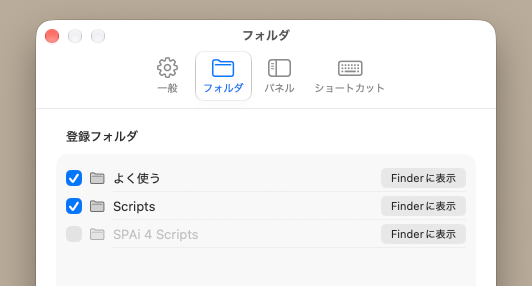
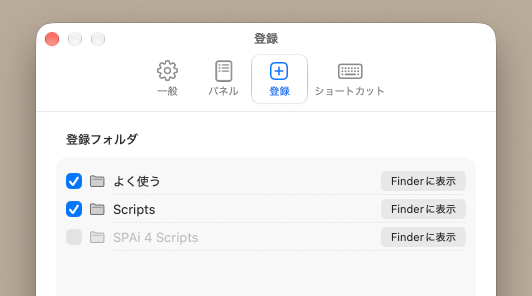
SPAi 4.0.2

diff --git a/Sources/SPAi/SPAi 4 Help.help/Contents/Resources/ja.lproj/06_settings.html b/Sources/SPAi/SPAi 4 Help.help/Contents/Resources/ja.lproj/06_settings.html
@@ -10,7 +10,7 @@
 <p class="breadcrumb"><a href="index.html">SPAi 4 ヘルプ</a> › 設定</p>
 <h1>設定</h1>
 
-<p>メニューバーのアイコン、またはDockアイコンのメニューから「設定…」を選ぶか、パネル上部の歯車ボタンをクリックすると、設定ウインドウが開きます。設定ウインドウには「一般」「フォルダ」「パネル」「ショートカット」の4つのタブがあります。</p>
+<p>メニューバーのアイコン、またはDockアイコンのメニューから「設定…」を選ぶか、パネル上部の歯車ボタンをクリックすると、設定ウインドウが開きます。設定ウインドウには「一般」「パネル」「登録」「ショートカット」の4つのタブがあります。</p>
 
 <h2>一般</h2>
 
@@ -25,7 +25,21 @@
 <h3>ログイン時に起動</h3>
 <p>Macへのログイン時にSPAiを自動的に起動します。</p>
 
-<h2>フォルダ</h2>
+<h2>パネル</h2>
+
+<h3>スクリプトパネル</h3>
+<dl>
+  <dt>Illustrator が最前面にあるときだけパネルを表示</dt>
+  <dd>オン（初期状態）のときは、ほかのアプリに切り替えるとスクリプトパネルが自動的に隠れ、Illustratorに戻ると再び表示されます。オフのときは、ほかのアプリを使っている間もパネルを表示したままにします。</dd>
+  <dt>リストの文字サイズ</dt>
+  <dd>スクリプトパネルの一覧の文字の大きさを「極小」「小」「中」「大」から選びます（初期状態は「中」）。</dd>
+  <dt>スクリプトを実行</dt>
+  <dd>スクリプトパネルでスクリプトを実行する操作を「ダブルクリック」「シングルクリック」から選びます（初期状態は「ダブルクリック」）。「シングルクリック」では、行をクリックすると選択と同時に実行します。ダブルクリックしても1回だけ実行します。検索パレットの操作は変わりません。</dd>
+  <dt>ショートカット一覧をキー順に並べる</dt>
+  <dd>スクリプトパネルの「ショートカット付きのスクリプトだけ」の一覧を、ショートカットの順（1、2…A、B…の順で、同じキーなら修飾キーの順）に並べます（初期状態はオン）。オフにすると名前の順に並びます（<a href="02_panel.html">スクリプトパネル</a>）。</dd>
+</dl>
+
+<h2>登録</h2>
 
 <h3>登録フォルダ</h3>
 <p>スクリプトが入ったフォルダを登録します。詳しくは<a href="05_scripts.html">スクリプトと登録フォルダ</a>をご覧ください。</p>
@@ -40,18 +54,6 @@
   <dd>オンのフォルダをパネルと検索パレットに表示します。オフにしても、そのフォルダのスクリプトに割り当てたショートカットは効いたままです。</dd>
   <dt>並び順</dt>
   <dd>行をドラッグすると並び替えられます。パネルの登録フォルダもこの順に並びます。</dd>
-</dl>
-
-<h2>パネル</h2>
-<dl>
-  <dt>Illustrator が最前面にあるときだけパネルを表示</dt>
-  <dd>オン（初期状態）のときは、ほかのアプリに切り替えるとスクリプトパネルが自動的に隠れ、Illustratorに戻ると再び表示されます。オフのときは、ほかのアプリを使っている間もパネルを表示したままにします。</dd>
-  <dt>リストの文字サイズ</dt>
-  <dd>スクリプトパネルの一覧の文字の大きさを「極小」「小」「中」「大」から選びます（初期状態は「中」）。</dd>
-  <dt>スクリプトを実行</dt>
-  <dd>スクリプトパネルでスクリプトを実行する操作を「ダブルクリック」「シングルクリック」から選びます（初期状態は「ダブルクリック」）。「シングルクリック」では、行をクリックすると選択と同時に実行します。ダブルクリックしても1回だけ実行します。検索パレットの操作は変わりません。</dd>
-  <dt>ショートカット一覧をキー順に並べる</dt>
-  <dd>スクリプトパネルの「ショートカット付きのスクリプトだけ」の一覧を、ショートカットの順（1、2…A、B…の順で、同じキーなら修飾キーの順）に並べます（初期状態はオン）。オフにすると名前の順に並びます（<a href="02_panel.html">スクリプトパネル</a>）。</dd>
 </dl>
 
 <h2>ショートカット</h2>

diff --git a/Sources/SPAi/AppDelegate.swift b/Sources/SPAi/AppDelegate.swift
@@ -817,17 +817,21 @@ final class AppDelegate: NSObject, NSApplicationDelegate {
             shortcuts.sizingOptions = [.preferredContentSize]
             let tabs = NSTabViewController()
             tabs.tabStyle = .toolbar
-            let pages: [(NSViewController, String, String)] = [
-                (general, String(localized: "General"), "gearshape"),
-                (folders, String(localized: "Folders"), "folder"),
-                (panel, String(localized: "Panel"), "sidebar.left"),
-                (shortcuts, String(localized: "Shortcuts"), "keyboard"),
+            // 並びは「一般」「パネル」「登録」「ショートカット」（2026-11-28 ユーザー指定で「パネル」を「一般」の右へ。
+            // 「フォルダ」タブは同日に ja 表記を「登録」・アイコンを plus.app に変更＝英語は Folders のまま）。
+            // 「パネル」のアイコンだけ自前の SVG（Assets の `PanelTabIcon`＝テンプレート画像・高さ 22pt）。
+            let pages: [(NSViewController, String, NSImage?)] = [
+                (general, String(localized: "General"), NSImage(systemSymbolName: "gearshape", accessibilityDescription: nil)),
+                (panel, String(localized: "Panel"), Self.panelTabIcon()),
+                (folders, String(localized: "Folders"), NSImage(systemSymbolName: "plus.app", accessibilityDescription: nil)),
+                (shortcuts, String(localized: "Shortcuts"), NSImage(systemSymbolName: "keyboard", accessibilityDescription: nil)),
             ]
-            for (vc, title, symbol) in pages {
+            for (vc, title, image) in pages {
                 vc.title = title
                 let item = NSTabViewItem(viewController: vc)
                 item.label = title
-                item.image = NSImage(systemSymbolName: symbol, accessibilityDescription: title)
+                image?.accessibilityDescription = title
+                item.image = image
                 tabs.addTabViewItem(item)
             }
             let window = NSWindow(contentViewController: tabs)
@@ -840,6 +844,23 @@ final class AppDelegate: NSObject, NSApplicationDelegate {
         // 窓は使い回すので、開くたびに外部で変わり得る状態（ログイン項目）を読み直させる
         NotificationCenter.default.post(name: .settingsWindowWillShow, object: nil)
         if let window = settingsWindow { bringToFront(window) }
+    }
+
+    /// 設定「パネル」タブのアイコン。SVG（縦長 82.13×104.69）を縦横比を保って高さ 22pt で描く。
+    /// ⚠ ツールバーは SF Symbols 以外の画像を約 32pt の枠いっぱいに拡大する（`size` を 22pt にしても
+    /// 実測 31pt になりラベルにかぶった）。そこで 32pt 四方の透明な画像の中央に 22pt で描いて渡す
+    /// （オフスクリーン描画の実測で高さ 22pt・歯車アイコンと同じ縦位置＝2026-11-28）。
+    private static func panelTabIcon() -> NSImage? {
+        guard let source = NSImage(named: "PanelTabIcon") else { return nil }
+        let slot: CGFloat = 32, height: CGFloat = 22
+        let aspect = source.size.height > 0 ? source.size.width / source.size.height : 82.13 / 104.69
+        let width = height * aspect
+        let image = NSImage(size: NSSize(width: slot, height: slot), flipped: false) { _ in
+            source.draw(in: NSRect(x: (slot - width) / 2, y: (slot - height) / 2, width: width, height: height))
+            return true
+        }
+        image.isTemplate = true
+        return image
     }
 
     /// ウィンドウ位置を記憶する。`name` でフレームを自動保存し、保存済みがあれば復元、なければ中央に置く。

diff --git a/Sources/SPAi/SPAi 4 Help.help/Contents/Resources/en.lproj/06_settings.html b/Sources/SPAi/SPAi 4 Help.help/Contents/Resources/en.lproj/06_settings.html
@@ -10,7 +10,7 @@
 <p class="breadcrumb"><a href="index.html">SPAi 4 Help</a> › Settings</p>
 <h1>Settings</h1>
 
-<p>Choose "Settings…" from the menu bar icon or the Dock icon's menu, or click the gear button at the top of the panel, to open the Settings window. The Settings window has four tabs: General, Folders, Panel, and Shortcuts.</p>
+<p>Choose "Settings…" from the menu bar icon or the Dock icon's menu, or click the gear button at the top of the panel, to open the Settings window. The Settings window has four tabs: General, Panel, Folders, and Shortcuts.</p>
 
 <h2>General</h2>
 
@@ -24,6 +24,20 @@
 
 <h3>Launch at Login</h3>
 <p>Opens SPAi automatically when you log in to your Mac.</p>
+
+<h2>Panel</h2>
+
+<h3>Script Panel</h3>
+<dl>
+  <dt>Show Panel Only When Illustrator Is Frontmost</dt>
+  <dd>When this is on (the default), the script panel hides automatically when you switch to another app and reappears when you return to Illustrator. When it is off, the panel stays visible while you use other apps.</dd>
+  <dt>List Text Size</dt>
+  <dd>Choose the text size of the script panel's list: "Extra Small," "Small," "Medium," or "Large" (the default is "Medium").</dd>
+  <dt>Run Scripts</dt>
+  <dd>Choose how to run a script in the script panel: "Double-Click" or "Single-Click" (the default is "Double-Click"). With "Single-Click," clicking a script selects and runs it; double-clicking runs it only once. The search palette works the same either way.</dd>
+  <dt>Sort Shortcut List by Key</dt>
+  <dd>Sorts the script panel's list of scripts that have shortcuts by shortcut (1, 2 … A, B …; shortcuts with the same key are sorted by modifier keys). This is on by default. When it is off, the list is sorted by name. See <a href="02_panel.html">Script Panel</a>.</dd>
+</dl>
 
 <h2>Folders</h2>
 
@@ -40,18 +54,6 @@
   <dd>Folders that are checked appear in the panel and search palette. Even when unchecked, shortcuts assigned to scripts in the folder keep working.</dd>
   <dt>Order</dt>
   <dd>Drag rows to reorder them. The panel shows registered folders in this order.</dd>
-</dl>
-
-<h2>Panel</h2>
-<dl>
-  <dt>Show Panel Only When Illustrator Is Frontmost</dt>
-  <dd>When this is on (the default), the script panel hides automatically when you switch to another app and reappears when you return to Illustrator. When it is off, the panel stays visible while you use other apps.</dd>
-  <dt>List Text Size</dt>
-  <dd>Choose the text size of the script panel's list: "Extra Small," "Small," "Medium," or "Large" (the default is "Medium").</dd>
-  <dt>Run Scripts</dt>
-  <dd>Choose how to run a script in the script panel: "Double-Click" or "Single-Click" (the default is "Double-Click"). With "Single-Click," clicking a script selects and runs it; double-clicking runs it only once. The search palette works the same either way.</dd>
-  <dt>Sort Shortcut List by Key</dt>
-  <dd>Sorts the script panel's list of scripts that have shortcuts by shortcut (1, 2 … A, B …; shortcuts with the same key are sorted by modifier keys). This is on by default. When it is off, the list is sorted by name. See <a href="02_panel.html">Script Panel</a>.</dd>
 </dl>
 
 <h2>Shortcuts</h2>

diff --git a/Sources/SPAi/SettingsView.swift b/Sources/SPAi/SettingsView.swift
@@ -104,6 +104,7 @@ struct ShortcutsSettingsPage: View {
 /// 「Illustrator が最前面にあるときだけパネルを表示」も一度ここへ移したが、同日ユーザー指定で「ログイン時に起動」の上へ戻した）。
 /// 2026-11-15 の4タブ化で「パネル」タブの唯一のカードになったので見出しを外し（タブ名と重なる）、
 /// 「Illustrator が最前面にあるときだけパネルを表示」を先頭に置いた（いつ出るか → 見え方 → 操作の順。ユーザー確定）。
+/// 2026-11-28 ユーザー指定で見出し「スクリプトパネル」を戻した（スクリプトパネルの設定であることを明示する）。
 struct PanelSettingsView: View {
     @AppStorage(Prefs.onlyWithIllustratorKey) private var onlyWithIllustrator = true
     @AppStorage(Prefs.listTextSizeKey) private var rawTextSize: String = ListTextSize.medium.rawValue
@@ -111,7 +112,7 @@ struct PanelSettingsView: View {
     @AppStorage(Prefs.sortPanelShortcutsByKeyKey) private var sortByKey = true
 
     var body: some View {
-        Section {
+        Section("Script Panel") {
             // 2026-10-21 にメニューバーのメニューから設定へ移設。2026-11-15 に「一般」からここへ
             Toggle("Show Panel Only When Illustrator Is Frontmost", isOn: $onlyWithIllustrator)
                 .onChange(of: onlyWithIllustrator) { _ in
